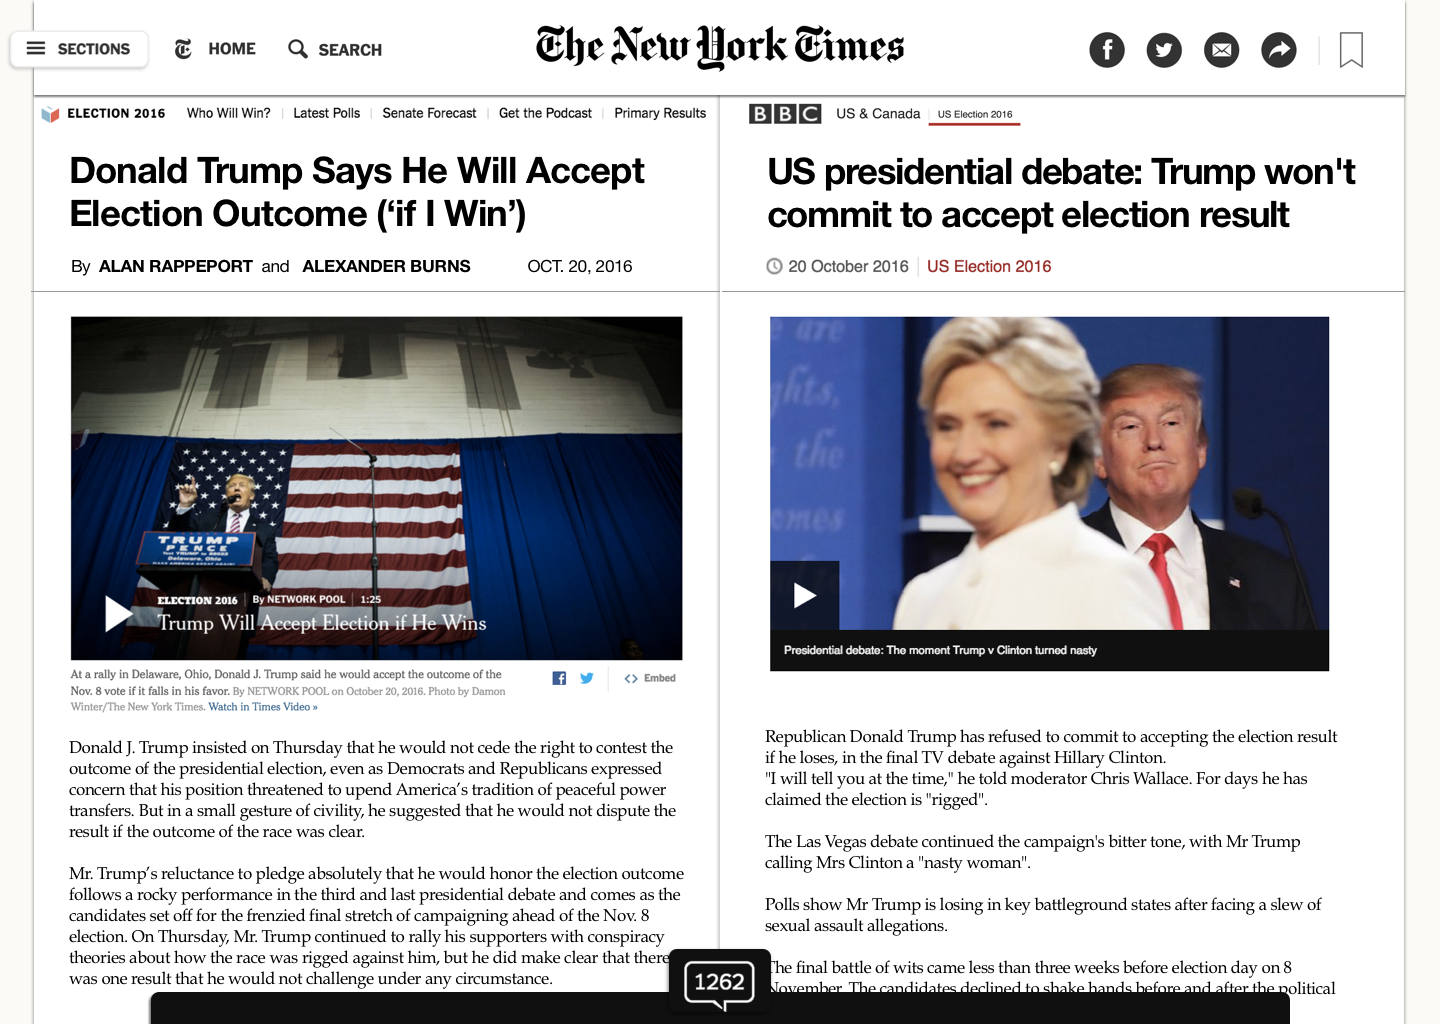
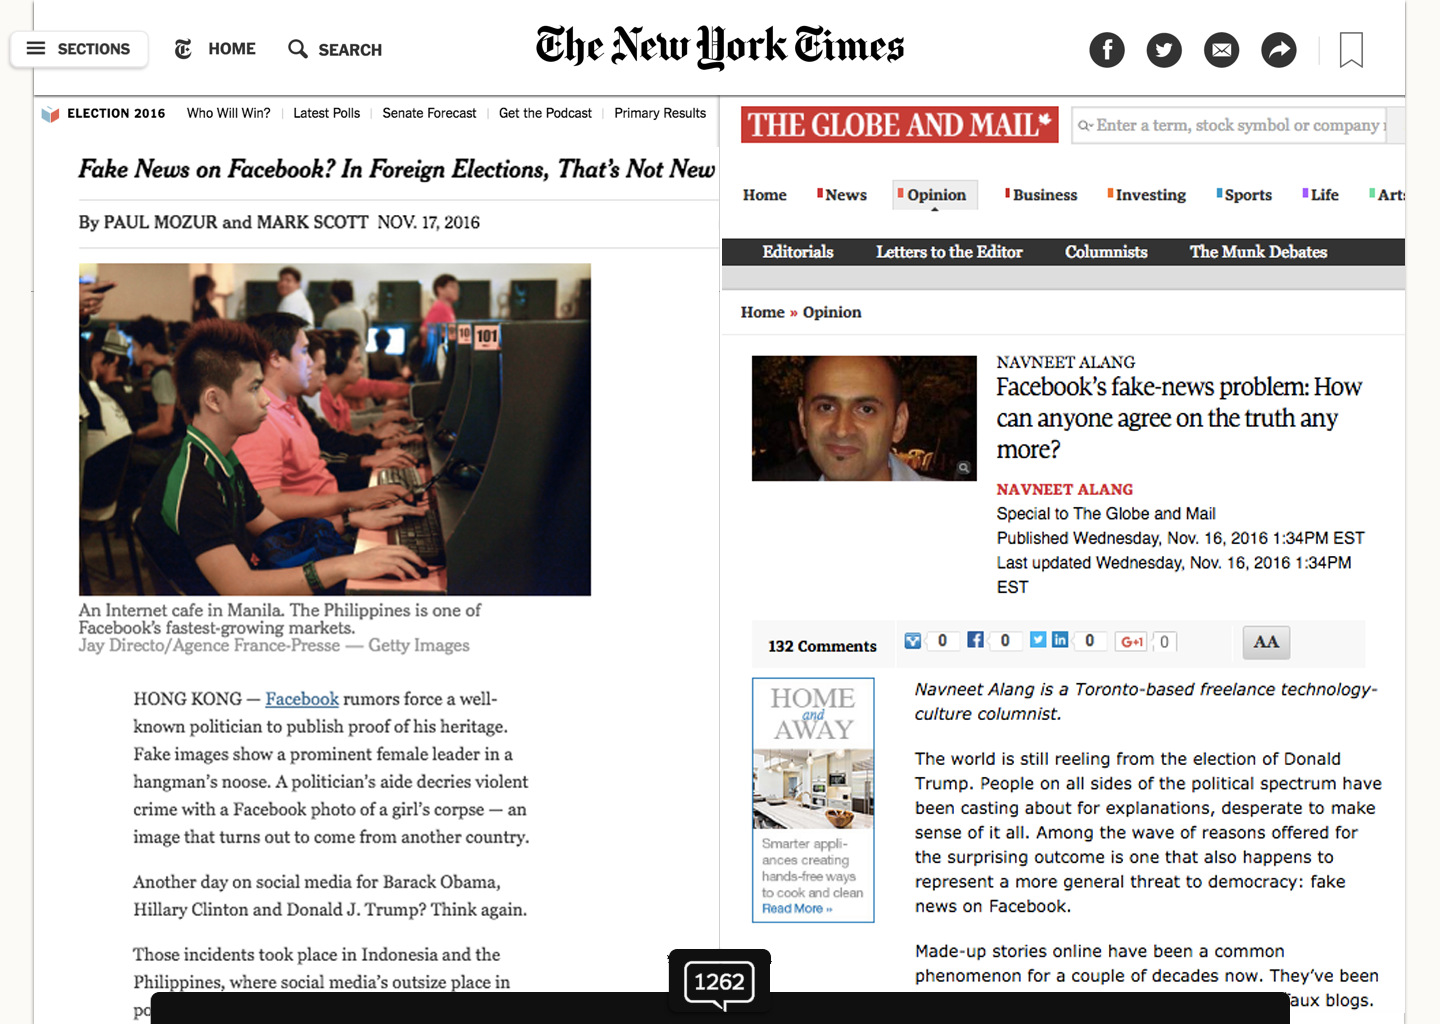
newnew

diff --git a/index.html b/index.html
@@ -4,9 +4,9 @@
   <meta charset="utf-8">
   <meta name="viewport" content="width=device-width">
   <meta property="og:title" content="New Perspective from The NYT" />
-  <meta property="og:description" content="Donald Trump Says He Will Accept Election Outcome (‘if I Win’) &#10 See articles from NYT and BBC" />
+  <meta property="og:description" content="Facebook’s fake-news problem &#13 See articles from The New York Times and The Globe And Mail" />
   <meta property="og:url" content="https://yan-j.github.io/nyt-01/index.html" />
-  <meta property="og:image" content="https://static01.nyt.com/images/2016/11/16/us/16conservatives1/16conservatives1-master768.jpg"/>
+  <meta property="og:image" content="https://static01.nyt.com/images/2016/11/18/business/00FAKEWORLD1/00FAKEWORLD1-master768.jpg"/>
   <meta property="og:type" content="website" />
 	
 
@@ -15,10 +15,11 @@
 </head>
 <body >
 	<div class="bkgd">
+    <img  src="bg01.png"  border="0" width="100%" />
 	</div>
 	
-	<div class="fb">		
-			<a href="javascript: void(window.open('http://www.facebook.com/share.php?u='.concat(encodeURIComponent('https://yan-j.github.io/nyt-01/index.html'))));"><img title="Share on Facebook" src="http://cdn.theatlantic.com/assets/static/b/common/newsletters/share-facebook.png"  border="0" width="150" /></a>
+	<div id="fb">		
+			<a href="javascript: void(window.open('http://www.facebook.com/share.php?u='.concat(encodeURIComponent('https://yan-j.github.io/nyt-01/index.html'))));"><img title="Share on Facebook" src="fbicon.png"  border="0" width="36" /></a>
 	</div>
 
 

diff --git a/styles.css b/styles.css
@@ -16,7 +16,15 @@ body {
 }
 
 .bkgd {
-    background-image: url(bg01.png);
+    position: relative;
     height: 100%;
     width: 100%;
+}
+
+#fb {
+    position:absolute;
+    left: 303px;
+    top: 80px;
+    width: 110%;
+    opacity: 0;
 }
